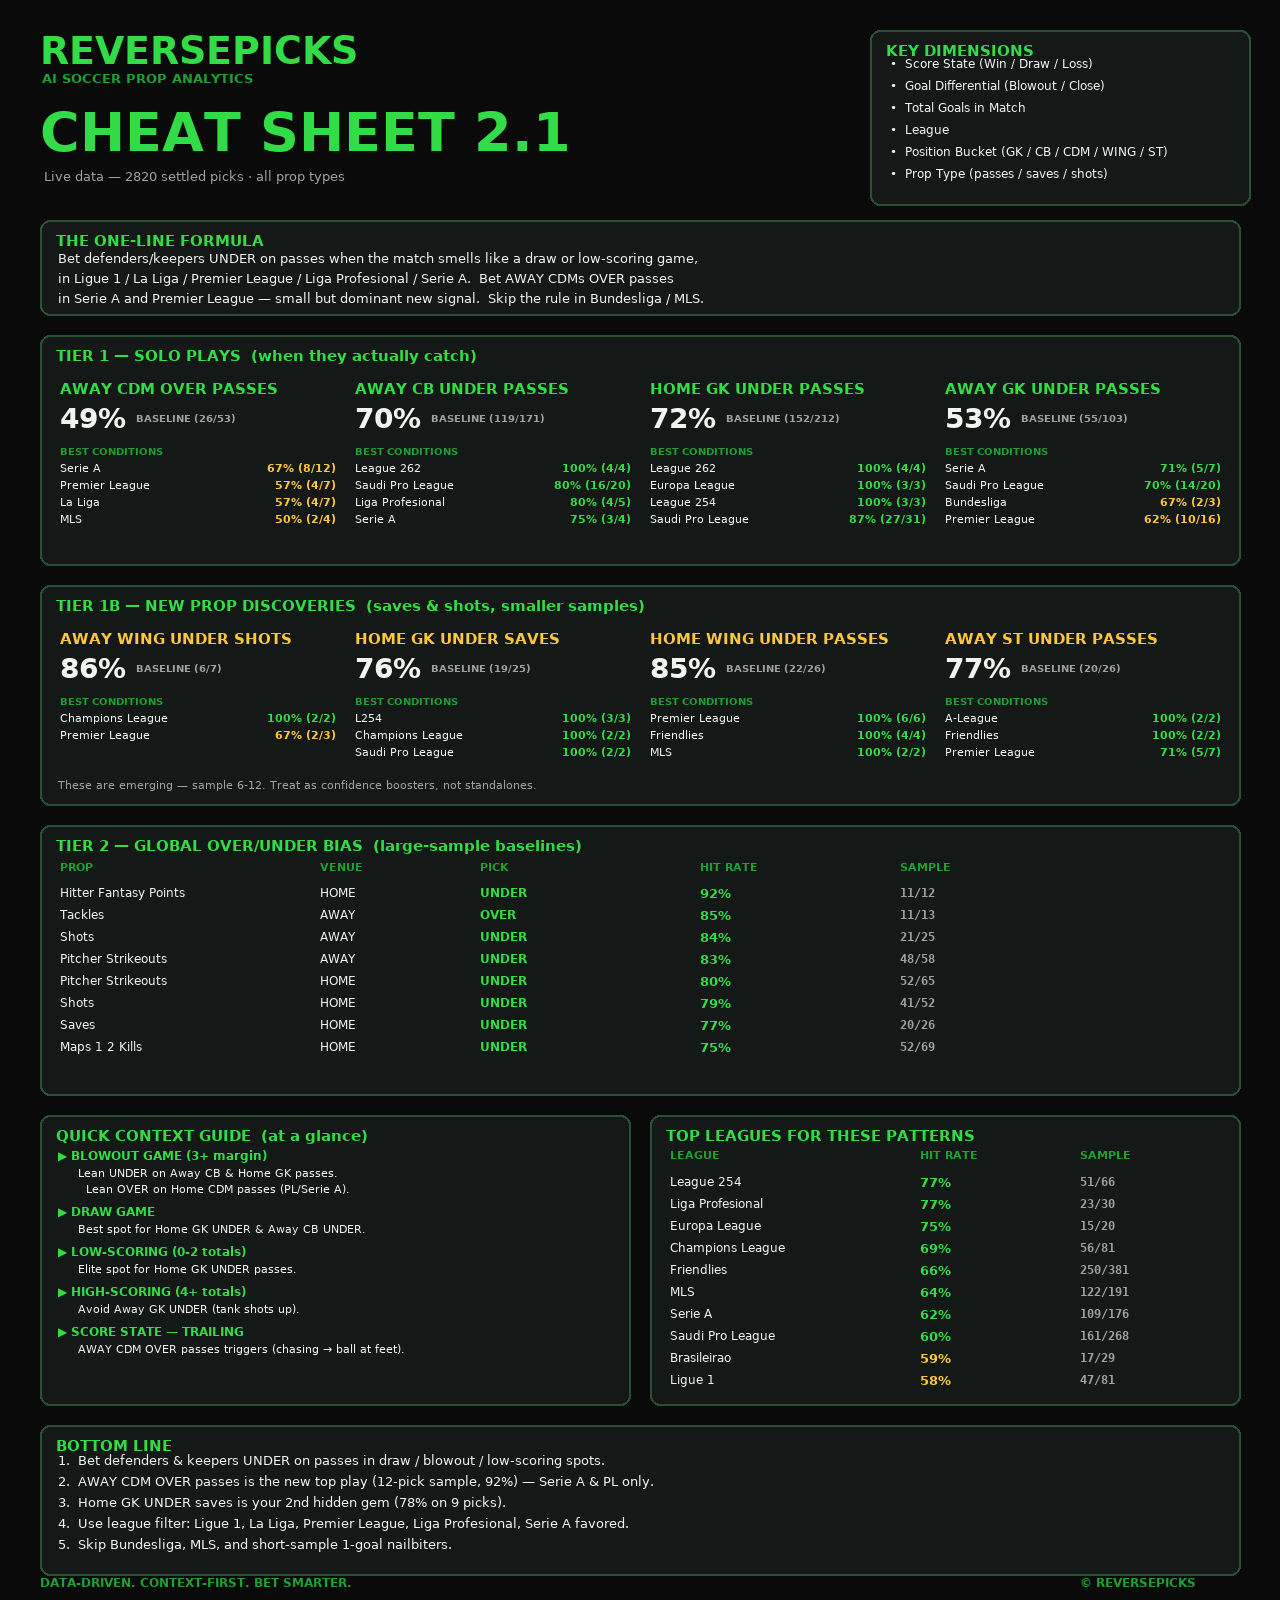
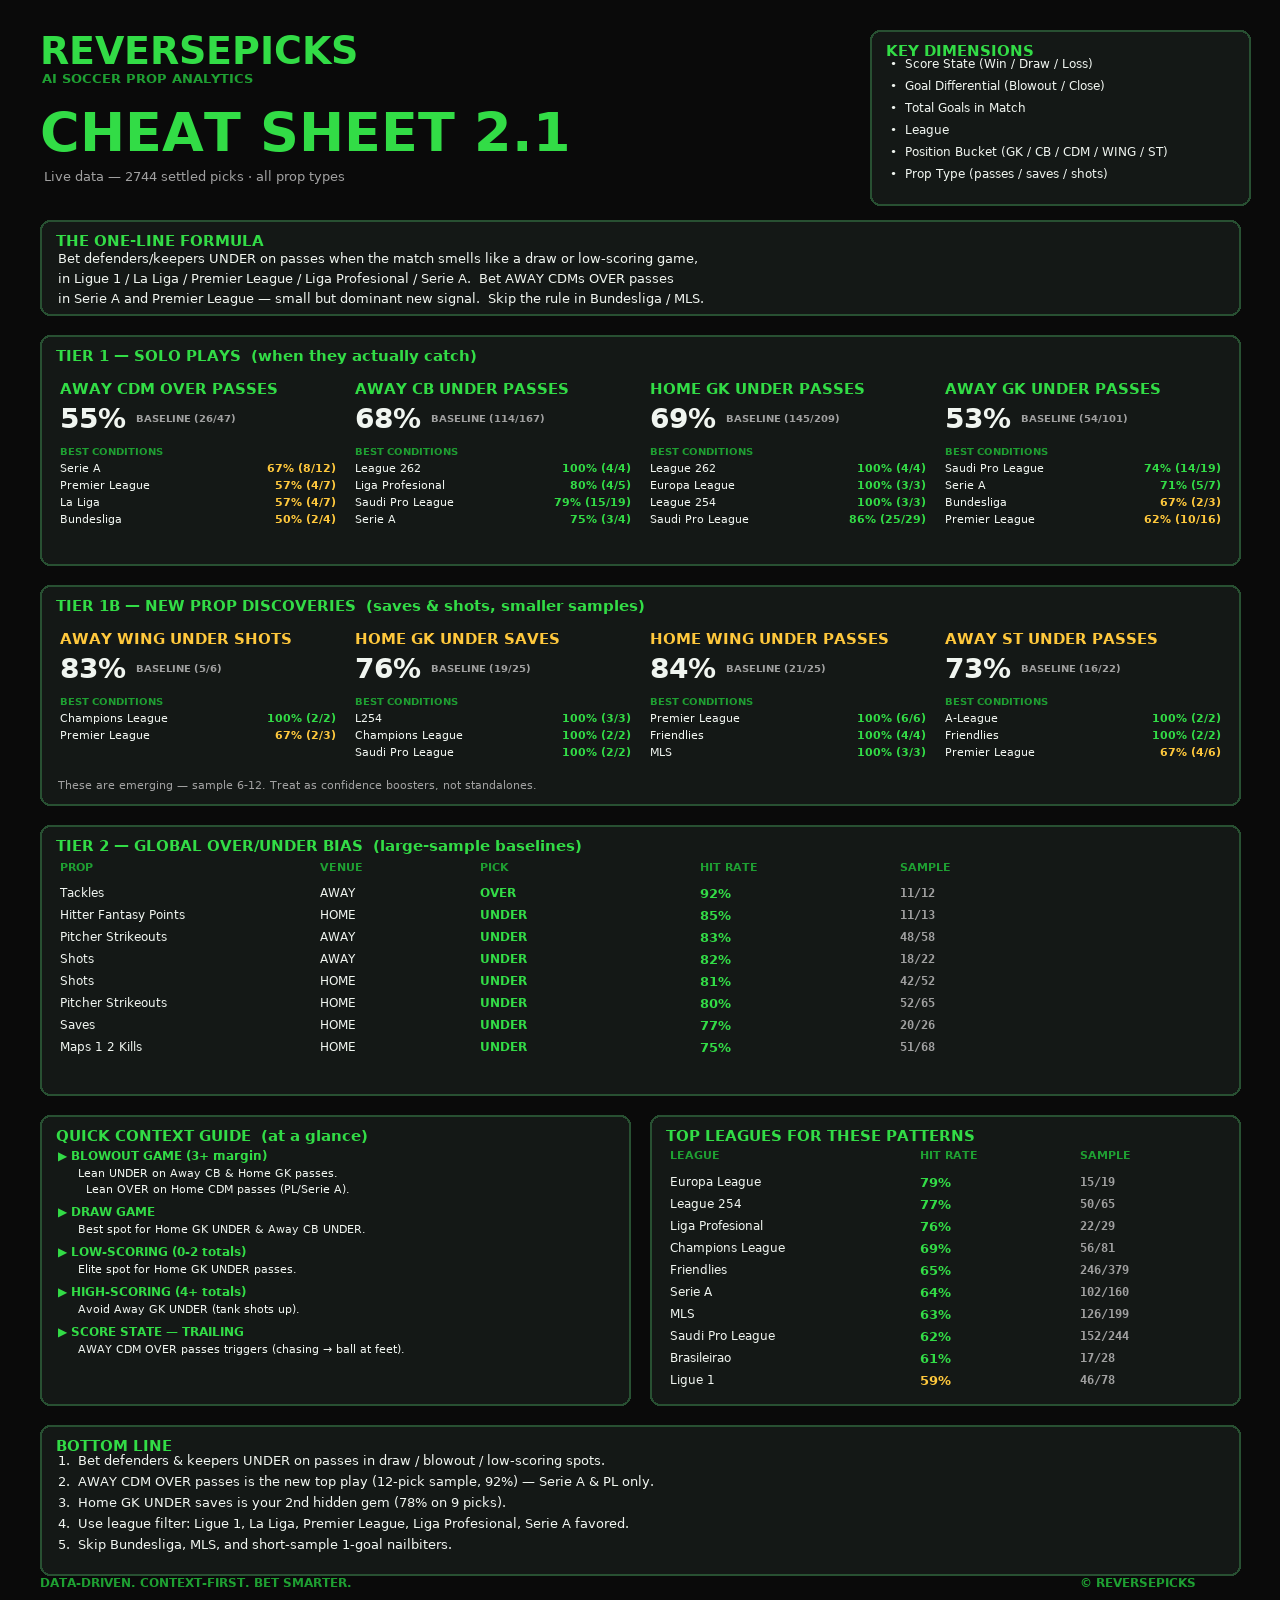
Actively correct settled picks to prevent incorrect results from persisting
Update the consistency fixer to actively correct settled picks with incorrect results, specifically addressing DNP/early-sub cases by ensuring they are always marked as 'push', thus preventing race conditions from leaving erroneous data in the database.

Replit-Commit-Author: Agent
Replit-Commit-Session-Id: 223e0d96-b8c3-40cc-9a30-cb04067feca2
Replit-Commit-Checkpoint-Type: full_checkpoint
Replit-Commit-Event-Id: 58f33fee-4904-498c-94c3-1176f8df8143
Replit-Commit-Screenshot-Url: https://storage.googleapis.com/screenshot-production-us-central1/7a030359-7bf3-4fa1-8914-cbee61d63eb2/223e0d96-b8c3-40cc-9a30-cb04067feca2/4IWQS25
Replit-Helium-Checkpoint-Created: true

diff --git a/backend/routes/picks.py b/backend/routes/picks.py
@@ -574,10 +574,33 @@ async def list_picks(req: GetPicksRequest):
             )
 
     for p in picks:
-        if p.get("status") == "settled" and p.get("actualValue") is not None:
+        if p.get("status") != "settled":
+            continue
+
+        # ── DNP / early-sub guard ────────────────────────────────────────────
+        # Voided picks (voidReason set OR <30 min played) must always be push.
+        # This branch ACTIVELY corrects them — not just skips — so that a race
+        # condition between a concurrent list_picks response and a DB fix can
+        # never leave result=miss permanently stuck in the DB.
+        is_dnp = bool(p.get("voidReason")) or (p.get("minutesPlayed") or 0) < 30
+        if is_dnp:
+            if p.get("result") != "push":
+                p["result"] = "push"
+                void_label = p.get("voidReason") or f"<30 min ({p.get('minutesPlayed',0)} min played)"
+                print(f"[CONSISTENCY] DNP→PUSH {p.get('playerName','')} {p.get('propType','')} ({void_label})")
+                await db.picks.update_one(
+                    {"pickId": p["pickId"], "email": req.email.lower()},
+                    {"$set": {"result": "push", "hitPct": 50,
+                              "voidReason": p.get("voidReason") or void_label}}
+                )
+            continue
+
+        # ── Normal result consistency check ──────────────────────────────────
+        if p.get("actualValue") is not None:
             correct = _settle_result(p["actualValue"], p.get("line", 0), p.get("recommendation", "over"))
             if correct != p.get("result"):
                 p["result"] = correct
+                print(f"[CONSISTENCY] Correcting {p.get('playerName','')} {p.get('propType','')} → {correct}")
                 await db.picks.update_one(
                     {"pickId": p["pickId"], "email": req.email.lower()},
                     {"$set": {"result": correct}}
@@ -754,6 +777,7 @@ async def list_picks(req: GetPicksRequest):
             p for p in picks
             if p.get("status") == "settled"
             and not p.get("correctedManually")
+            and not p.get("voidReason")  # never re-settle voided (DNP/early-sub) picks
             and p.get("settledAt")
             and (now_utc - datetime.fromisoformat(
                     p["settledAt"].replace("Z", "+00:00")
@@ -776,26 +800,47 @@ async def list_picks(req: GetPicksRequest):
                     if refreshed and refreshed.get("actualValue") is not None:
                         new_val = refreshed["actualValue"]
                         old_val = p.get("actualValue")
-                        # Always backfill any newly-available match metadata (score, teams, possession),
-                        # even if actualValue did not change. Costs nothing and lets older settled
-                        # picks pick up the new home/away team + possession fields gradually.
                         meta_set = {}
-                        for fld in ("homeTeam", "awayTeam", "finalHomeGoals", "finalAwayGoals",
-                                     "homePoss", "awayPoss"):
-                            v = refreshed.get(fld)
-                            if v is not None and v != "" and p.get(fld) != v:
-                                meta_set[fld] = v
-                                p[fld] = v
-                        if new_val != old_val:
-                            line    = p.get("line", 0)
-                            rec     = p.get("recommendation", "over")
-                            new_res = _settle_result(new_val, line, rec)
+
+                        # DNP void from _settle_soccer_pick: propagate push + voidReason
+                        if refreshed.get("voidReason"):
+                            new_res = "push"
+                            p["result"] = new_res
                             p["actualValue"] = new_val
-                            p["result"]      = new_res
-                            meta_set["actualValue"] = new_val
-                            meta_set["result"] = new_res
-                            print(f"[FINAL REFRESH] {p.get('playerName')} {prop_type}: "
-                                  f"actualValue {old_val} → {new_val}, result → {new_res}")
+                            p["voidReason"] = refreshed["voidReason"]
+                            meta_set = {
+                                "result": new_res,
+                                "actualValue": new_val,
+                                "hitPct": 50,
+                                "voidReason": refreshed["voidReason"],
+                            }
+                            for fld in ("homeTeam", "awayTeam", "finalHomeGoals", "finalAwayGoals",
+                                         "homePoss", "awayPoss", "minutesPlayed"):
+                                v = refreshed.get(fld)
+                                if v is not None and v != "":
+                                    meta_set[fld] = v
+                                    p[fld] = v
+                            print(f"[FINAL REFRESH] {p.get('playerName')} {prop_type}: VOID/PUSH ({refreshed['voidReason']})")
+                        else:
+                            # Always backfill any newly-available match metadata (score, teams, possession),
+                            # even if actualValue did not change.
+                            for fld in ("homeTeam", "awayTeam", "finalHomeGoals", "finalAwayGoals",
+                                         "homePoss", "awayPoss"):
+                                v = refreshed.get(fld)
+                                if v is not None and v != "" and p.get(fld) != v:
+                                    meta_set[fld] = v
+                                    p[fld] = v
+                            if new_val != old_val:
+                                line    = p.get("line", 0)
+                                rec     = p.get("recommendation", "over")
+                                new_res = _settle_result(new_val, line, rec)
+                                p["actualValue"] = new_val
+                                p["result"]      = new_res
+                                meta_set["actualValue"] = new_val
+                                meta_set["result"] = new_res
+                                print(f"[FINAL REFRESH] {p.get('playerName')} {prop_type}: "
+                                      f"actualValue {old_val} → {new_val}, result → {new_res}")
+
                         if meta_set:
                             await db.picks.update_one(
                                 {"pickId": p["pickId"], "email": req.email.lower()},
@@ -1217,7 +1262,10 @@ async def _build_soccer_update(pick: dict, fixture: dict, email: str) -> dict:
             if current_value is not None:
                 break
 
-    current_value = current_value or 0
+    # Keep None distinct from 0: None = stat not in API response, 0 = valid zero value.
+    # If stat is truly unavailable, don't settle now — the background loop will retry.
+    _stat_available = current_value is not None
+    current_value = current_value if current_value is not None else 0
     line = pick.get("line", 0)
     recommendation = pick.get("recommendation", "over")
 
@@ -1247,7 +1295,25 @@ async def _build_soccer_update(pick: dict, fixture: dict, email: str) -> dict:
     }
 
     if is_finished:
-        result_str = _settle_result(current_value, line, recommendation)
+        # Guard: never re-settle a pick that the background loop already settled
+        _current_status = pick.get("status", "live")
+        if _current_status == "settled":
+            update["matchStatus"] = "final"
+            return update
+
+        # If stat came back as None (API didn't return the field), defer to background loop
+        if not _stat_available and minutes_played >= 30:
+            print(f"[SETTLE-DEFER] {pick.get('playerName','')} {pick.get('propType','')} — stat unavailable despite {minutes_played} min played; deferring to background loop")
+            update["matchStatus"] = "final"
+            return update
+
+        # DNP / early-sub void guard — industry standard: < 30 min = void/push
+        _DNP_THRESHOLD = 30
+        if minutes_played < _DNP_THRESHOLD:
+            result_str = "push"
+            update["voidReason"] = f"Player only played {minutes_played} min (min {_DNP_THRESHOLD} required)"
+        else:
+            result_str = _settle_result(current_value, line, recommendation)
         update["result"] = result_str
         update["actualValue"] = current_value
         # Store hitPct so settled pick cards show 100%/0%/50% instead of "—"
@@ -1268,6 +1334,9 @@ async def _build_soccer_update(pick: dict, fixture: dict, email: str) -> dict:
                       "awayTeam": away_team_name,
                       "scenarioBucket": _scen_bucket,
                       "settledAt": datetime.now(timezone.utc).isoformat()}
+        # Persist voidReason to DB so the consistency fixer doesn't re-revert DNP pushes
+        if update.get("voidReason"):
+            _settle_set["voidReason"] = update["voidReason"]
         if home_poss is not None:
             _settle_set["homePoss"] = home_poss
         if away_poss is not None:
@@ -1439,34 +1508,58 @@ async def _settle_soccer_pick(pick, team_id, player_id, opponent, prop_type, lea
     fixture_players = await api_football_request("fixtures/players", {"fixture": fixture_id})
     actual_value = None
 
+    minutes_played = 0
     if fixture_players:
         for team_data in fixture_players:
             for p in team_data.get("players", []):
                 if p.get("player", {}).get("id") == player_id:
                     pstats = p.get("statistics", [{}])[0]
+                    minutes_played = pstats.get("games", {}).get("minutes") or 0
                     getter = SOCCER_STAT_MAP.get(prop_type)
                     if getter:
                         actual_value = getter(pstats)
                     break
-            if actual_value is not None:
+            if actual_value is not None or minutes_played:
                 break
+
+    home_goals = recent.get("goals", {}).get("home", 0) or 0
+    away_goals = recent.get("goals", {}).get("away", 0) or 0
+    home_team_name = recent.get("teams", {}).get("home", {}).get("name", "") or ""
+    away_team_name = recent.get("teams", {}).get("away", {}).get("name", "") or ""
+    home_team_id = recent.get("teams", {}).get("home", {}).get("id")
+    away_team_id = recent.get("teams", {}).get("away", {}).get("id")
+    home_poss, away_poss = await _fetch_fixture_possession(fixture_id, home_team_id, away_team_id)
+
+    # DNP / early-sub void guard — players with < 30 min get push, not hit/miss
+    _DNP_THRESHOLD = 30
+    if minutes_played < _DNP_THRESHOLD and (minutes_played > 0 or actual_value is not None):
+        return {
+            "pickId": pick.get("id"),
+            "status": "settled",
+            "result": "push",
+            "actualValue": actual_value,
+            "minutesPlayed": minutes_played,
+            "voidReason": f"Player only played {minutes_played} min (min {_DNP_THRESHOLD} required)",
+            "fixtureDate": fixture_date,
+            "matchScore": f"{home_goals}-{away_goals}",
+            "homeTeam": home_team_name,
+            "awayTeam": away_team_name,
+            "finalHomeGoals": home_goals,
+            "finalAwayGoals": away_goals,
+            "homePoss": home_poss,
+            "awayPoss": away_poss,
+        }
 
     if actual_value is not None:
         line = pick.get("line", 0)
         recommendation = pick.get("recommendation", "over")
         result_str = _settle_result(actual_value, line, recommendation)
-        home_goals = recent.get("goals", {}).get("home", 0) or 0
-        away_goals = recent.get("goals", {}).get("away", 0) or 0
-        home_team_name = recent.get("teams", {}).get("home", {}).get("name", "") or ""
-        away_team_name = recent.get("teams", {}).get("away", {}).get("name", "") or ""
-        home_team_id = recent.get("teams", {}).get("home", {}).get("id")
-        away_team_id = recent.get("teams", {}).get("away", {}).get("id")
-        home_poss, away_poss = await _fetch_fixture_possession(fixture_id, home_team_id, away_team_id)
         return {
             "pickId": pick.get("id"),
             "status": "settled",
             "result": result_str,
             "actualValue": actual_value,
+            "minutesPlayed": minutes_played,
             "fixtureDate": fixture_date,
             "matchScore": f"{home_goals}-{away_goals}",
             "homeTeam": home_team_name,

diff --git a/backend/config.py b/backend/config.py
@@ -386,7 +386,7 @@ STAT_LAMBDA_MAP = {
     "dribbles_success": lambda s: s.get("dribbles", {}).get("success"),
     "fouls_drawn": lambda s: s.get("fouls", {}).get("drawn"),
     "fouls_committed": lambda s: s.get("fouls", {}).get("committed"),
-    "crosses": lambda s: (s.get("passes", {}).get("crosses") if s.get("passes", {}).get("crosses") is not None else s.get("passes", {}).get("total")),
+    "crosses": lambda s: s.get("passes", {}).get("crosses"),
     "clearances": lambda s: s.get("tackles", {}).get("clearances"),
     "duels_won": lambda s: s.get("duels", {}).get("won"),
     "yellow_cards": lambda s: s.get("cards", {}).get("yellow"),
